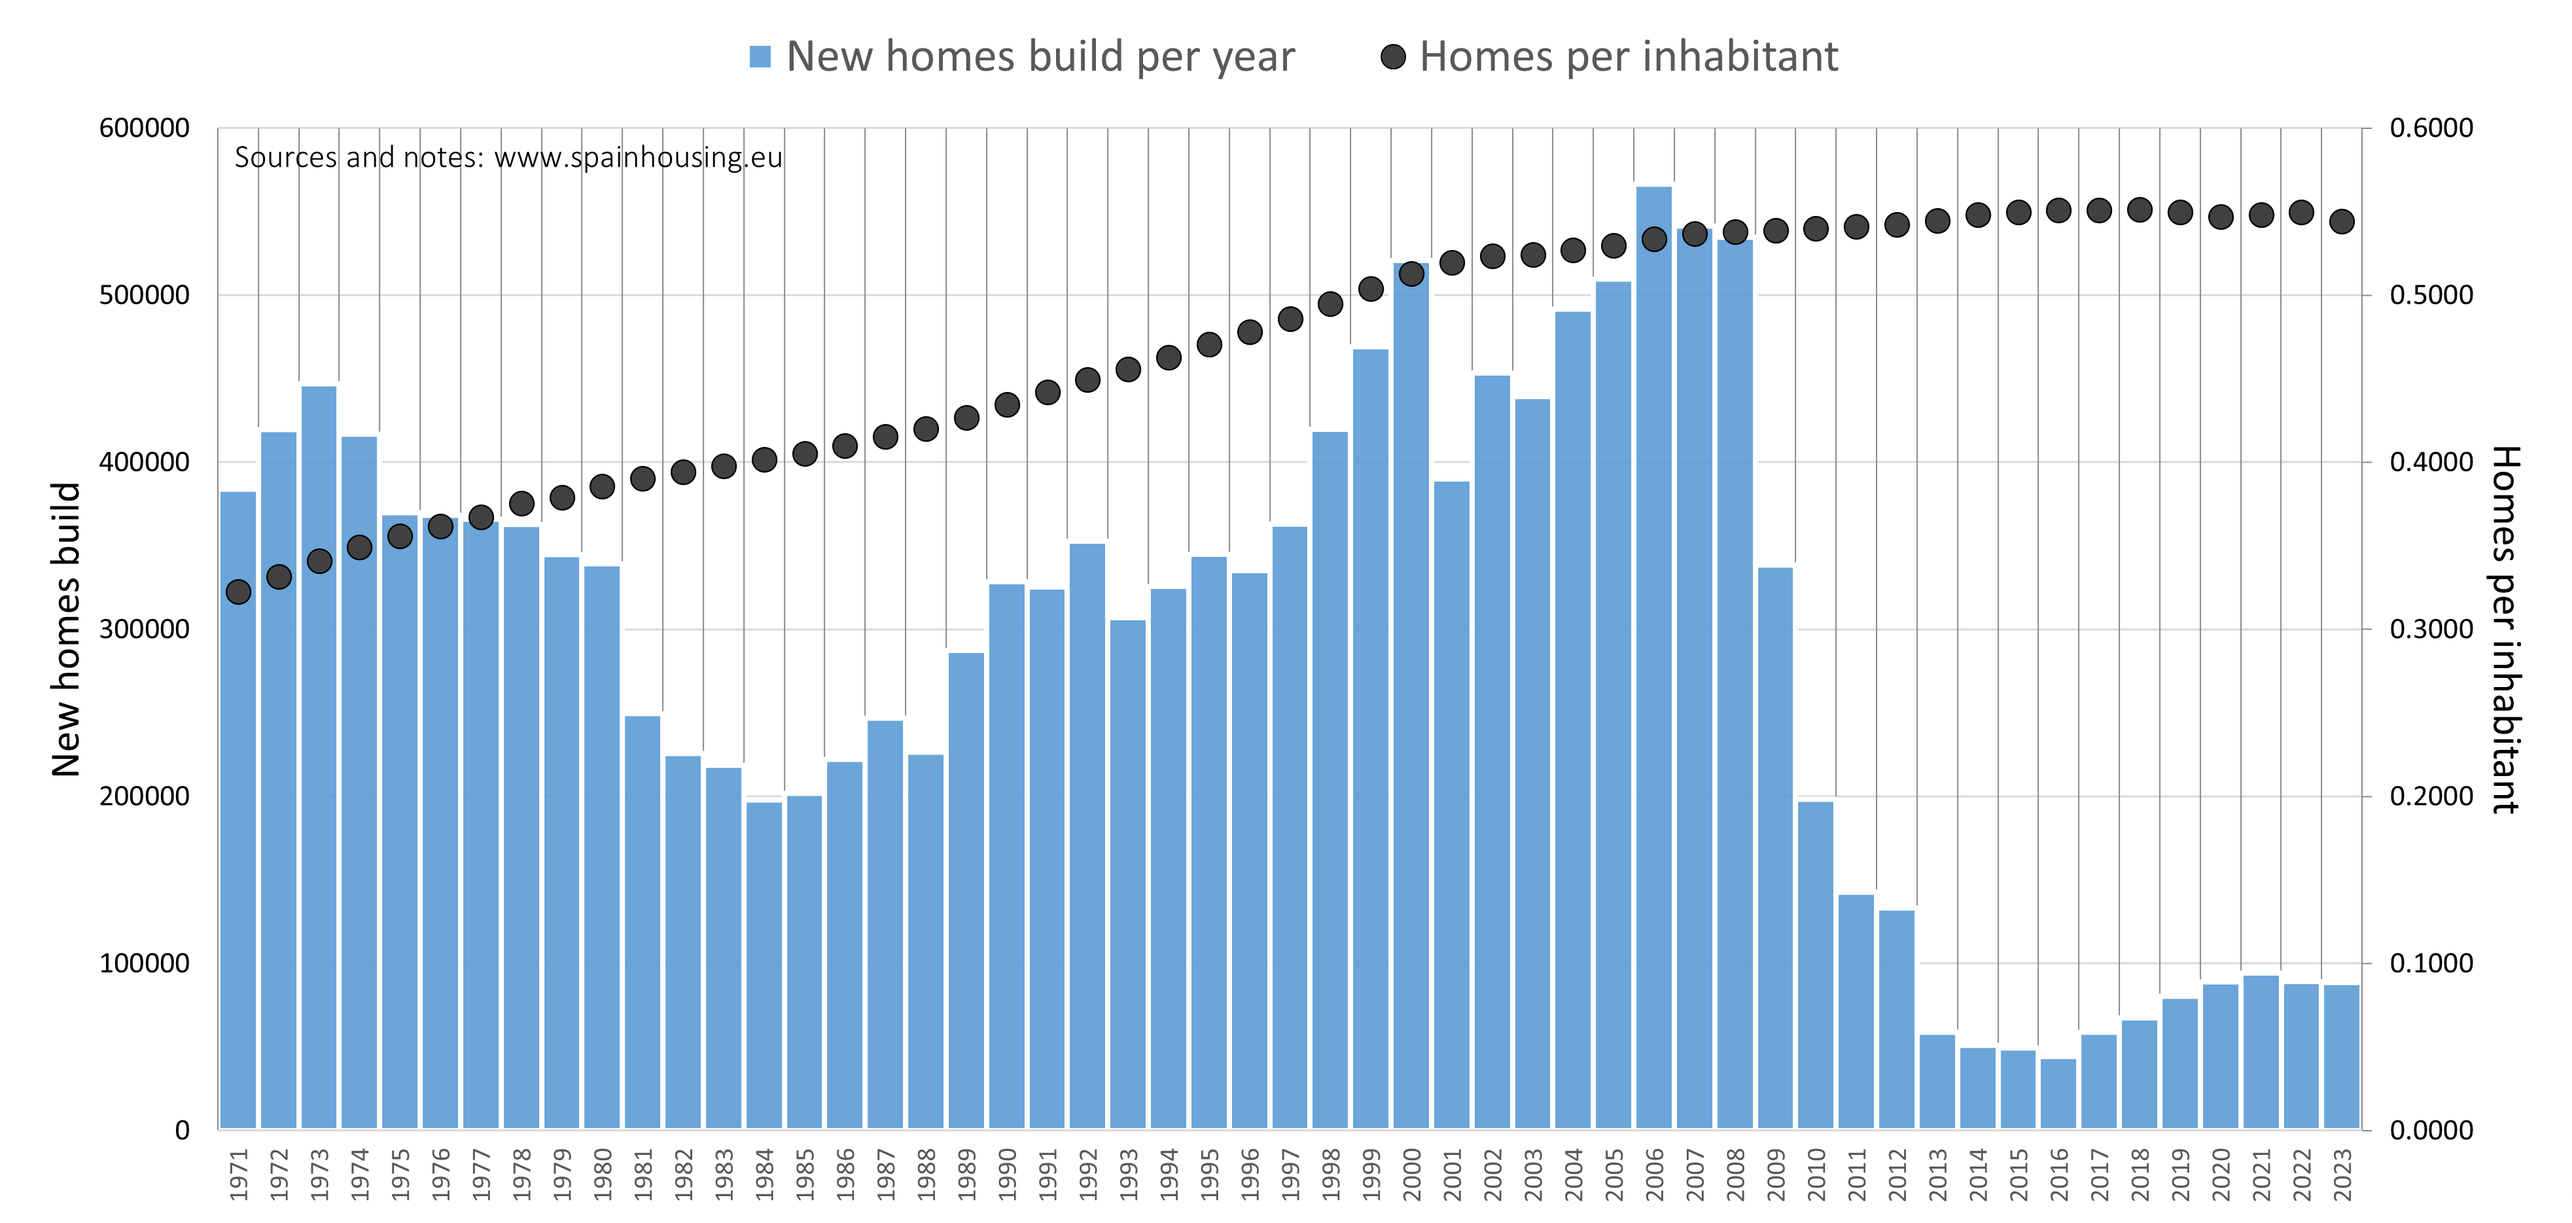
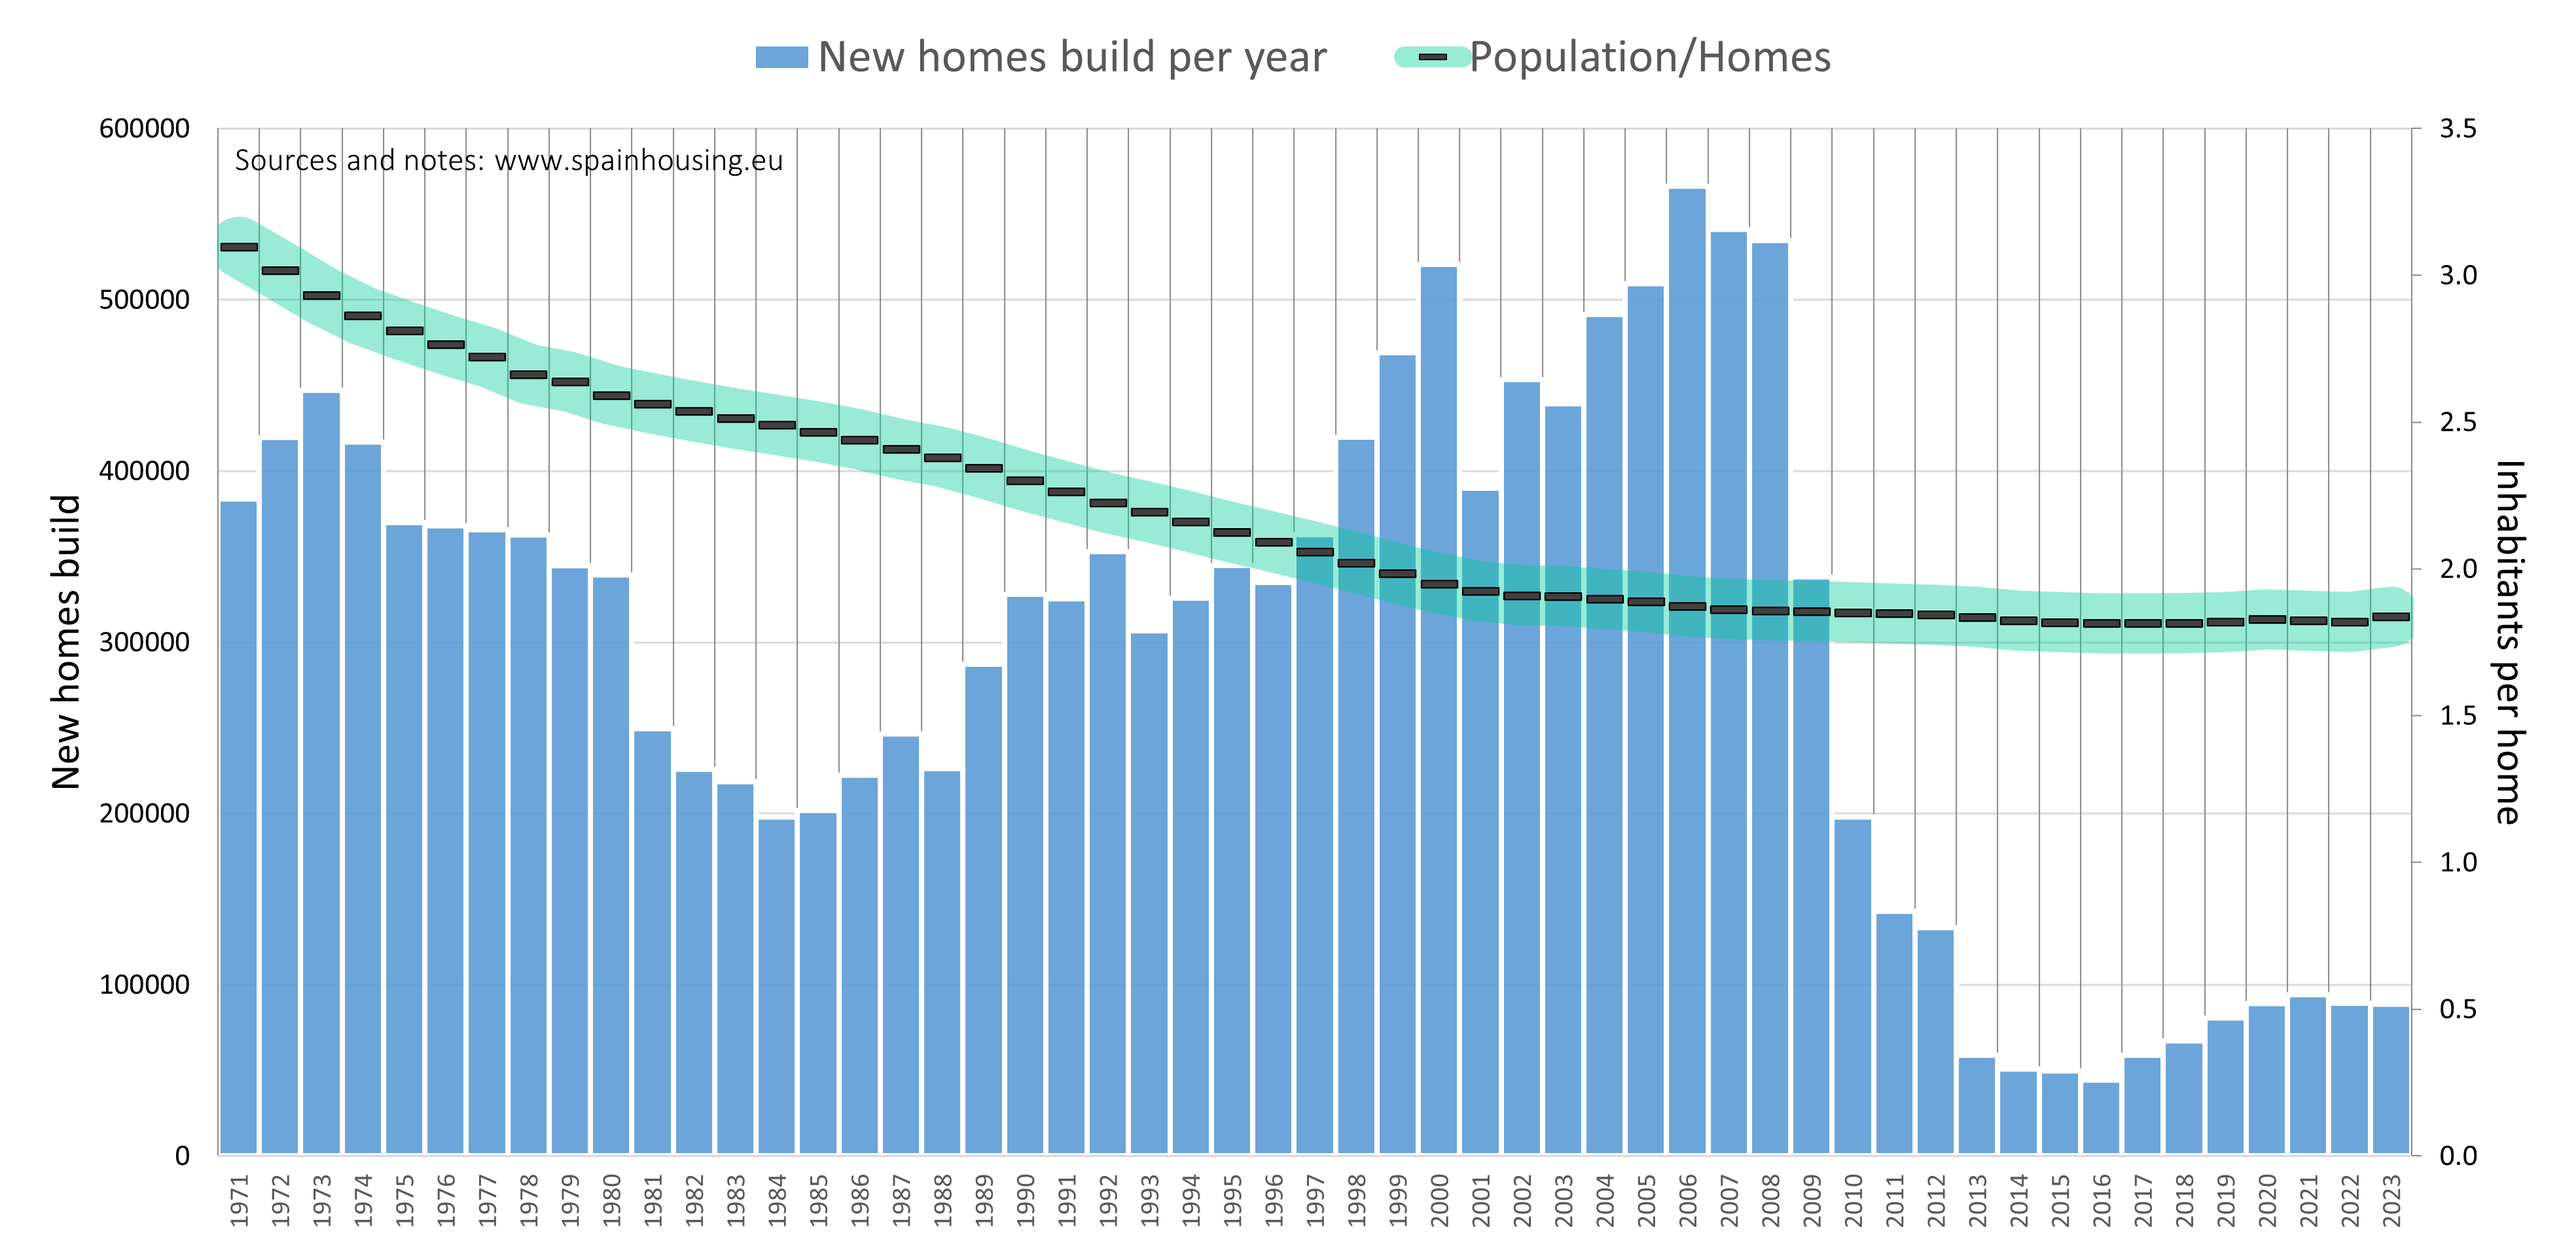
update_january

diff --git a/pages/posts/stock.md b/pages/posts/stock.md
@@ -16,7 +16,7 @@ import Image from 'next/image'
 
 - **Number of dwellings**: new homes built annually since 1971.
   - **Left axis (bars)**: total number of new dwellings per year.
-  - **Right axis (line)**: number of dwellings per each 2 inhabitants.
+  - **Right axis (line)**: number of inhabitants per dwelling.
 
 [![Antiguedad de las viviendas](/images/stockperiods.png)](/images/stockperiods.png)
 
@@ -71,6 +71,7 @@ The evolution of the housing stock is a key factor in the supply balance. A coup
 - Inflation data (_Table: average inflation Spain (CPI) - by year_): [Link](https://www.inflation.eu/en/inflation-rates/spain/historic-inflation/cpi-inflation-spain.aspx)
 - Public housing (_Vivienda protegida. Series anuales > 1.6. Número de calificaciones definitivas. Planes estatales y planes autonómicos_): [Link](https://apps.fomento.gob.es/BoletinOnline2/?nivel=2&orden=31000000)
 - Private housing (_Vivienda libre. Series anuales > 3.2. Número de viviendas libres terminadas_): [Link](https://apps.fomento.gob.es/BoletinOnline2/?nivel=2&orden=32000000)
+- Average number of persons per household (_Proyección del número medio de personas por hogar en España hasta 2037_): [Link](https://www.epdata.es/proyeccion-numero-medio-personas-hogar-espana-2035/de078c7c-473a-4ade-bc1e-668b2a9677ae)
 
 <div class="meta-line"><a class="meta-back" href="/">← Back to home page</a></div>
 
